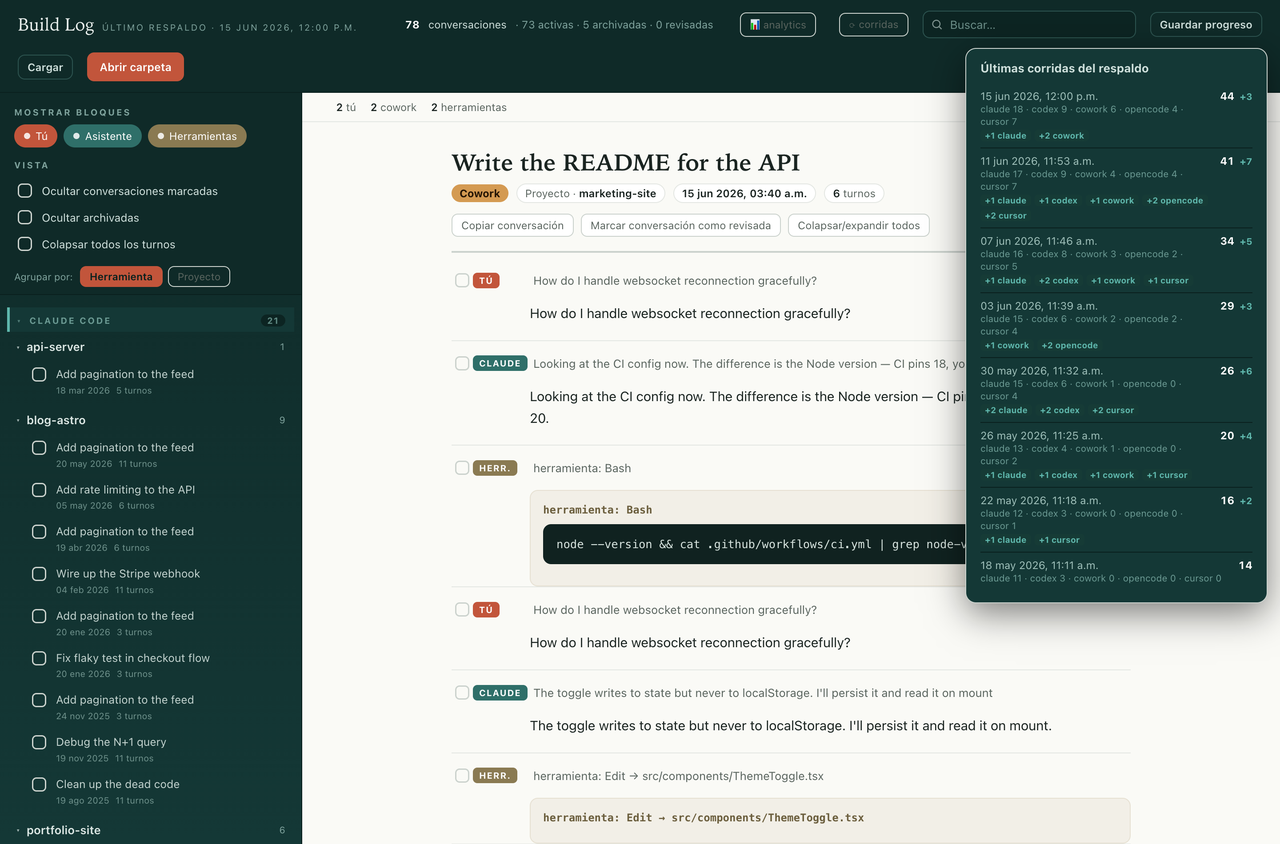
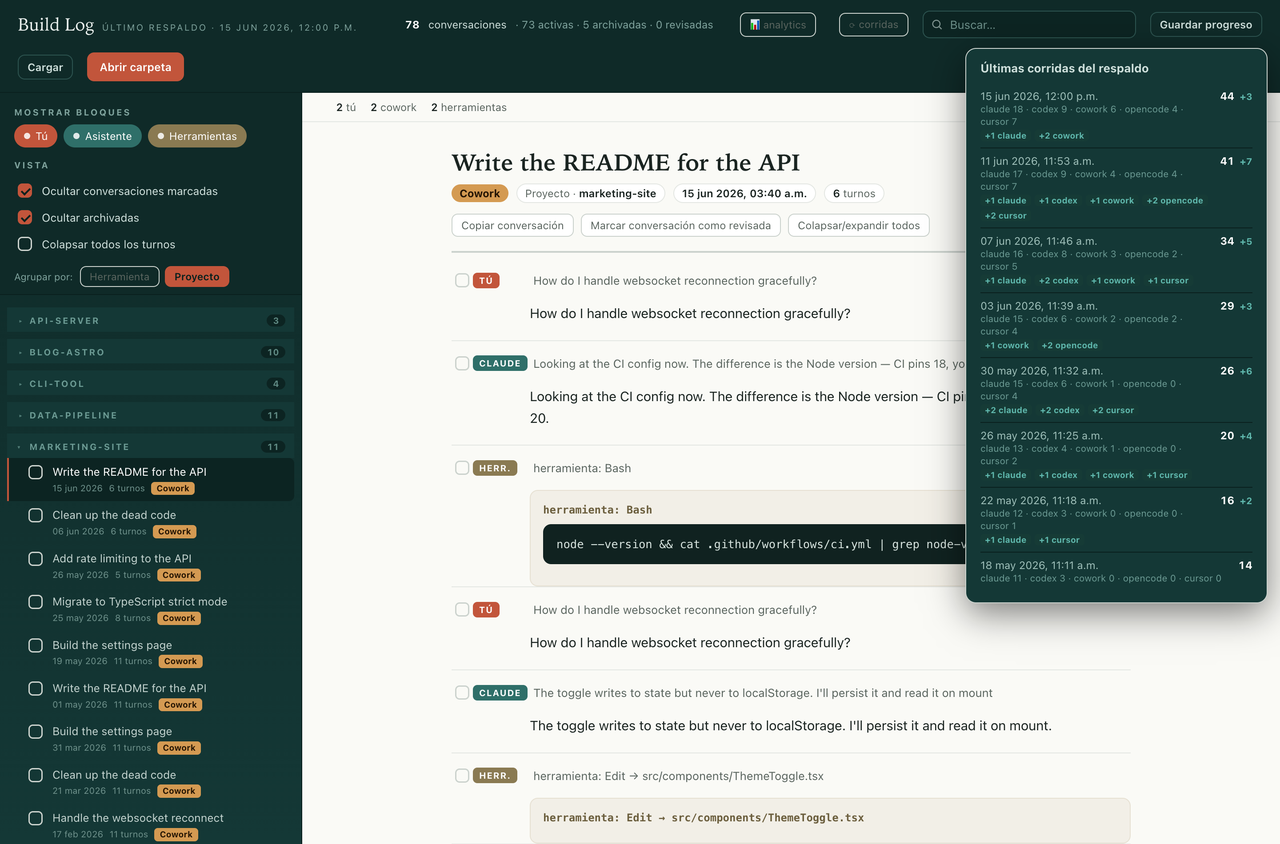
Viewer: default to project grouping, hide archived/reviewed, open latest active conversation; README: lead with privacy/why, move screenshots down

Changed region(s): [[0.0, 0.3697, 0.1875, 1.0], [0.0625, 0.3081, 0.1875, 0.3389], [0.0, 0.2156, 0.0312, 0.2773]]

diff --git a/viewer.html b/viewer.html
@@ -274,13 +274,13 @@
           <span class="chip on" data-type="tool"><span class="dot"></span>Herramientas</span>
         </div>
         <h3>Vista</h3>
-        <label class="toggle-row"><input type="checkbox" id="hideDone">Ocultar conversaciones marcadas</label>
-        <label class="toggle-row"><input type="checkbox" id="hideArchived">Ocultar archivadas</label>
+        <label class="toggle-row"><input type="checkbox" id="hideDone" checked>Ocultar conversaciones marcadas</label>
+        <label class="toggle-row"><input type="checkbox" id="hideArchived" checked>Ocultar archivadas</label>
         <label class="toggle-row"><input type="checkbox" id="collapseAll">Colapsar todos los turnos</label>
         <div class="group-toggle">
           <span class="gt-label">Agrupar por:</span>
-          <button class="gt-btn active" data-mode="source" id="gtSource">Herramienta</button>
-          <button class="gt-btn" data-mode="project" id="gtProject">Proyecto</button>
+          <button class="gt-btn" data-mode="source" id="gtSource">Herramienta</button>
+          <button class="gt-btn active" data-mode="project" id="gtProject">Proyecto</button>
         </div>
       </div>
       <nav class="projects" id="projects"></nav>
@@ -293,7 +293,7 @@
         <div class="hintbox">
           <b>Cómo empezar</b><br>
           1. Tocá <b>Abrir carpeta</b>.<br>
-          2. Elegí <code>~/Desktop/respaldo-claude</code> (lee todas las subcarpetas de markdown).<br>
+          2. Elegí la carpeta que contiene tus markdowns (lee todas las subcarpetas).<br>
           3. El progreso se guarda solo; usá <b>Guardar progreso</b> para un respaldo en archivo.<br><br>
           Todo corre en tu equipo. Nada se sube a internet.
         </div>
@@ -316,8 +316,8 @@ const state = {
   sessions: [], projects: new Map(), sources: new Map(),
   activeId: null,
   types: { user:true, assistant:true, tool:true },
-  query: "", hideDone:false, hideArchived:false, collapseAll:false,
-  backupInfo:{}, collapsedSources:{}, groupMode:"source",
+  query: "", hideDone:true, hideArchived:true, collapseAll:false,
+  backupInfo:{}, collapsedSources:{}, groupMode:"project",
   progress: {}  // { [sessionId]: { done:bool, turns:{ [i]:bool } } }
 };
 
@@ -529,17 +529,31 @@ async function handleFiles(fileList){
   for(const pm of state.sources.values())
     for(const p of pm.values())
       p.sessions.sort((a,b)=>(b.fecha||"").localeCompare(a.fecha||""));
-  // los módulos arrancan colapsados; el usuario expande el que quiera
+  // los grupos del modo activo arrancan colapsados; el usuario expande el que quiera
   state.collapsedSources={};
-  for(const fuente of state.sources.keys()) state.collapsedSources["src:"+fuente]=true;
+  if(state.groupMode==="source"){
+    for(const fuente of state.sources.keys()) state.collapsedSources["src:"+fuente]=true;
+  } else {
+    const projs=new Set();
+    for(const pm of state.sources.values()) for(const p of pm.values()) projs.add(p.project);
+    for(const pr of projs) state.collapsedSources["proj:"+pr]=true;
+  }
+  // elegir la primera conversación activa y sin revisar (la más reciente)
+  const elegibles=state.sessions
+    .filter(s=>!s.archivada && !prog(s.id).done)
+    .sort((a,b)=>(b.fecha||"").localeCompare(a.fecha||""));
+  const primera=elegibles[0]||state.sessions[0];
+  if(primera){
+    // expandir el grupo que la contiene para que se vea seleccionada en la lista
+    const key=state.groupMode==="project" ? "proj:"+primera.project : "src:"+primera.fuente;
+    delete state.collapsedSources[key];
+  }
   renderSidebar();
   renderBackupStamp();
   renderGlobalCount();
   renderRunLog();
   setStickyOffsets();
-  // abrir la primera sesión visible
-  const firstSrc=[...state.sources.values()][0];
-  if(firstSrc){ const firstProj=[...firstSrc.values()][0]; if(firstProj&&firstProj.sessions[0]) openSession(firstProj.sessions[0].id); }
+  if(primera) openSession(primera.id);
 }
 
 /* ---------- sidebar ---------- */

diff --git a/README.md b/README.md
@@ -8,31 +8,29 @@ standalone para navegarlas, agruparlas, filtrarlas y ver analíticas de tu uso.
 
 Todo corre **localmente en tu Mac**. Nada se sube a ningún lado.
 
-> Las capturas de abajo usan **datos de ejemplo generados**, no conversaciones reales.
-
 ---
 
-## Capturas
+## Por qué
 
-**Lista de conversaciones** — agrupadas por herramienta, con los turnos y los
-bloques de herramientas renderizados.
+**Tus herramientas de IA no guardan tu historial para siempre — y casi nunca te
+enterás cuando lo perdés.**
 
-![Vista de lista](docs/screenshots/main-list.png)
+- **Codex** solo lista las conversaciones recientes; las viejas dejan de
+  aparecer, aunque por un tiempo sigan en disco.
+- **Claude Code** hace limpiezas periódicas de sesiones viejas: un día están, y
+  al siguiente ya no.
+- Si reinstalás una herramienta, cambiás de máquina o se corrompe una base de
+  datos, ese historial se va **sin aviso**.
 
-**Analytics** — resumen, heatmap diario del último año, top proyectos y
-actividad en el tiempo (día/semana/mes, conversaciones o turnos).
+Esas conversaciones suelen tener **decisiones de diseño, el porqué de cómo se
+hizo algo, y contexto que tu código no registra**. Este proyecto las copia a
+Markdown **antes de que desaparezcan**, de forma incremental y acumulativa: una
+vez respaldada, una conversación **nunca se borra de tu copia**, aunque la
+herramienta de origen la elimine.
 
-![Analytics](docs/screenshots/analytics.png)
-
-**Agrupar por proyecto** — la misma colección vista por proyecto, con la
-herramienta de origen marcada en cada conversación.
-
-![Agrupar por proyecto](docs/screenshots/group-projects.png)
-
-**Historial de corridas** — cada respaldo queda registrado, con cuántas
-conversaciones nuevas aportó cada fuente.
-
-![Historial de corridas](docs/screenshots/run-history.png)
+Y como son tus datos privados, **todo corre local**: los scripts solo leen tus
+archivos y escriben Markdown en tu disco, el visor es un HTML estático. No hay
+servidor, ni nube, ni telemetría. (Ver [Privacidad](#privacidad).)
 
 ---
 
@@ -113,14 +111,42 @@ Abrí **`viewer.html`** con doble clic (se abre en el navegador como `file://`)
 y apuntalo a la carpeta donde están tus `markdown-*` (la misma carpeta base del
 respaldo). Desde ahí podés navegar, filtrar, copiar y ver las analíticas.
 
+Por defecto agrupa por **proyecto**, oculta las archivadas y las ya revisadas, y
+abre la conversación activa más reciente. Podés cambiar el agrupamiento (por
+herramienta) y los filtros desde la barra lateral.
+
+---
+
+## Capturas
+
+> Usan **datos de ejemplo generados**, no conversaciones reales.
+
+**Lista de conversaciones** — por defecto agrupadas por proyecto, con los turnos
+y los bloques de herramientas renderizados.
+
+![Vista de lista](docs/screenshots/main-list.png)
+
+**Analytics** — resumen, heatmap diario del último año, top proyectos y
+actividad en el tiempo (día/semana/mes, conversaciones o turnos).
+
+![Analytics](docs/screenshots/analytics.png)
+
+**Historial de corridas** — cada respaldo queda registrado, con cuántas
+conversaciones nuevas aportó cada fuente.
+
+![Historial de corridas](docs/screenshots/run-history.png)
+
 ---
 
 ## Privacidad
 
-**Este repo NO incluye ninguna conversación.** El `.gitignore` excluye todas las
-carpetas de markdown, los datos crudos (`*.jsonl`, `*.db`, `*.vscdb`, `*.pb`) y
-el estado de sincronización. Cada usuario respalda **sus propias** conversaciones
-localmente; nunca se commitea contenido real.
+- **Nada sale de tu máquina.** Los scripts solo leen archivos locales y escriben
+  Markdown local; el visor es un HTML estático que abrís con `file://`. Sin
+  llamadas de red, sin servidor, sin telemetría.
+- **El repo NO incluye ninguna conversación.** El `.gitignore` excluye todas las
+  carpetas de markdown, los datos crudos (`*.jsonl`, `*.db`, `*.vscdb`, `*.pb`) y
+  el estado de sincronización. Cada quien respalda **sus propias** conversaciones
+  localmente; nunca se commitea contenido real.
 
 ---
 